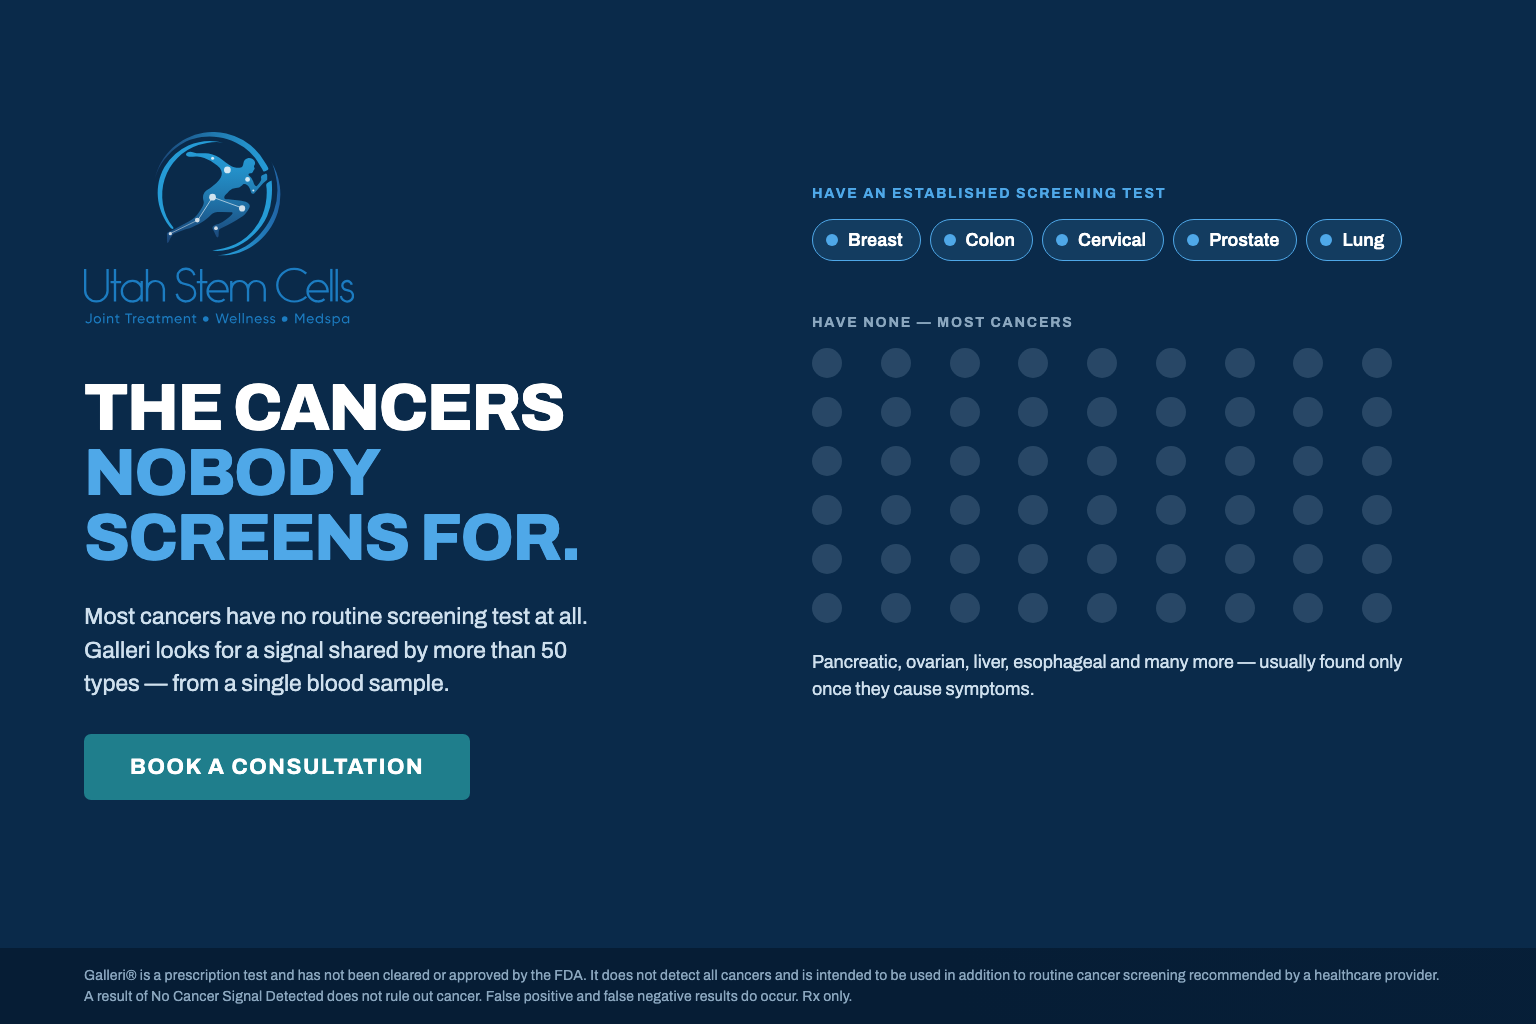
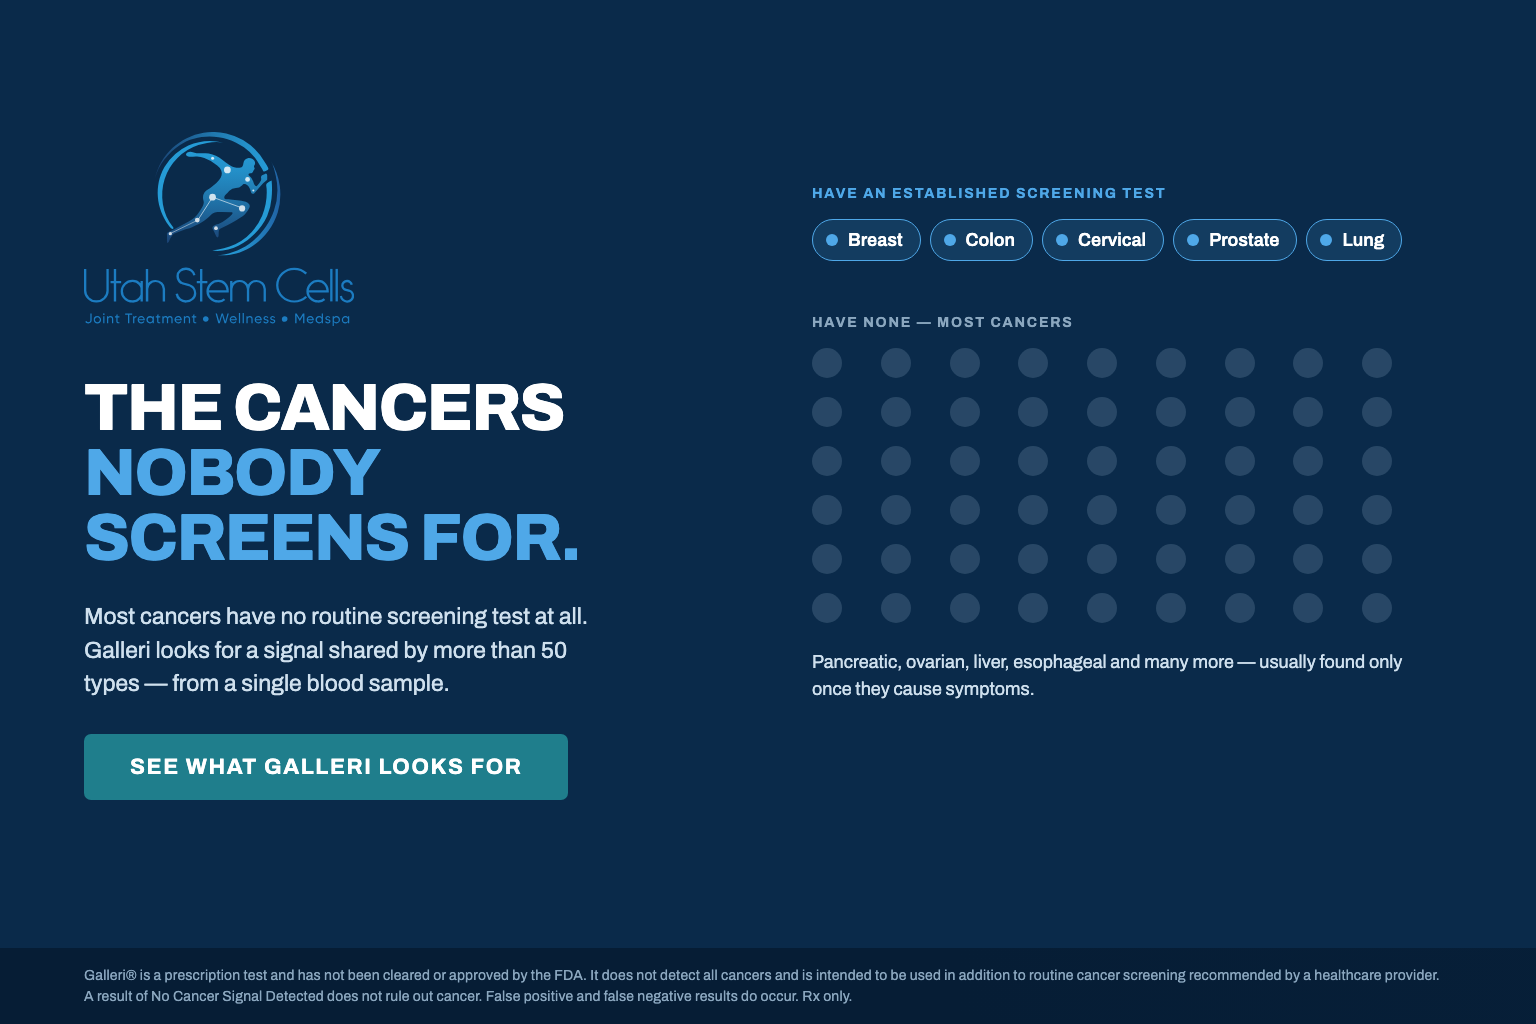
CTA a basso impegno su creativita ed email 02-06
Il primo invio ha dato 19,5% di aperture ma ~0,2% di click, e dei 9 click 6
sono andati alla home invece che alla landing: chi apre vuole capire, non
prenotare. "Book a consultation" diventa un invito a leggere, specifico per
ogni DEM; la prenotazione resta come riga secondaria sotto il bottone.

La 01 non e' toccata: gia' inviata il 9 ottobre.

Changed region(s): [[0.0938, 0.7188, 0.375, 0.7812]]

diff --git a/newsletter/ott26/email/06-how-it-works-here.html b/newsletter/ott26/email/06-how-it-works-here.html
@@ -53,12 +53,12 @@
         
               <table role="presentation" cellpadding="0" cellspacing="0" border="0" align="center" style="margin:0 auto;">
                 <tr><td align="center" bgcolor="#1f7e8c" style="border-radius:6px;">
-                  <a href="https://utahstemcells.com/galleri-test/" style="display:inline-block;padding:16px 38px;font-family:Arial,Helvetica,sans-serif;font-size:17px;font-weight:bold;color:#ffffff;text-decoration:none;border-radius:6px;">Book a consultation</a>
+                  <a href="https://utahstemcells.com/galleri-test/" style="display:inline-block;padding:16px 38px;font-family:Arial,Helvetica,sans-serif;font-size:17px;font-weight:bold;color:#ffffff;text-decoration:none;border-radius:6px;">See how the test works here</a>
                 </td></tr>
               </table>
       </td></tr>
       <tr><td class="px" align="center" style="padding:6px 40px 34px;font-family:Arial,Helvetica,sans-serif;font-size:15px;color:#6b7c8c;">
-        or call <a href="tel:+18019994860" style="color:#0a2a4a;font-weight:bold;text-decoration:none;">(801) 999-4860</a>
+        Prefer to talk it through? Book a consultation on <a href="tel:+18019994860" style="color:#0a2a4a;font-weight:bold;text-decoration:none;">(801) 999-4860</a>
       </td></tr>
       <tr><td class="px" style="padding:0 40px 26px;">
         <p style="margin:0;font-family:Arial,Helvetica,sans-serif;font-size:11px;line-height:1.55;color:#6b7c8c;border-top:1px solid #d6e4f0;padding-top:16px;">Important Safety Information: The Galleri test is recommended for use in adults with an elevated risk for cancer, such as those age 50 or older. The test does not detect all cancers and should be used in addition to routine cancer screening tests recommended by a healthcare provider. Use of the test is not recommended in individuals who are pregnant, 21 years old or younger, or undergoing active cancer treatment. A test result of No Cancer Signal Detected does not rule out cancer. A test result of Cancer Signal Detected requires confirmatory diagnostic evaluation by medically established procedures (e.g., imaging) to confirm cancer. False positive and false negative test results do occur. Rx only. The Galleri test was developed, and its performance characteristics determined, by GRAIL. It has not been cleared or approved by the Food and Drug Administration.</p>

diff --git a/newsletter/ott26/email/03-cancers-nobody-screens-for.html b/newsletter/ott26/email/03-cancers-nobody-screens-for.html
@@ -51,12 +51,12 @@
         
               <table role="presentation" cellpadding="0" cellspacing="0" border="0" align="center" style="margin:0 auto;">
                 <tr><td align="center" bgcolor="#1f7e8c" style="border-radius:6px;">
-                  <a href="https://utahstemcells.com/galleri-test/" style="display:inline-block;padding:16px 38px;font-family:Arial,Helvetica,sans-serif;font-size:17px;font-weight:bold;color:#ffffff;text-decoration:none;border-radius:6px;">Book a consultation</a>
+                  <a href="https://utahstemcells.com/galleri-test/" style="display:inline-block;padding:16px 38px;font-family:Arial,Helvetica,sans-serif;font-size:17px;font-weight:bold;color:#ffffff;text-decoration:none;border-radius:6px;">See what Galleri looks for</a>
                 </td></tr>
               </table>
       </td></tr>
       <tr><td class="px" align="center" style="padding:6px 40px 34px;font-family:Arial,Helvetica,sans-serif;font-size:15px;color:#6b7c8c;">
-        or call <a href="tel:+18019994860" style="color:#0a2a4a;font-weight:bold;text-decoration:none;">(801) 999-4860</a>
+        Prefer to talk it through? Book a consultation on <a href="tel:+18019994860" style="color:#0a2a4a;font-weight:bold;text-decoration:none;">(801) 999-4860</a>
       </td></tr>
       <tr><td class="px" style="padding:0 40px 26px;">
         <p style="margin:0;font-family:Arial,Helvetica,sans-serif;font-size:11px;line-height:1.55;color:#6b7c8c;border-top:1px solid #d6e4f0;padding-top:16px;">Important Safety Information: The Galleri test is recommended for use in adults with an elevated risk for cancer, such as those age 50 or older. The test does not detect all cancers and should be used in addition to routine cancer screening tests recommended by a healthcare provider. Use of the test is not recommended in individuals who are pregnant, 21 years old or younger, or undergoing active cancer treatment. A test result of No Cancer Signal Detected does not rule out cancer. A test result of Cancer Signal Detected requires confirmatory diagnostic evaluation by medically established procedures (e.g., imaging) to confirm cancer. False positive and false negative test results do occur. Rx only. The Galleri test was developed, and its performance characteristics determined, by GRAIL. It has not been cleared or approved by the Food and Drug Administration.</p>

diff --git a/newsletter/ott26/email/04-what-your-result-means.html b/newsletter/ott26/email/04-what-your-result-means.html
@@ -51,12 +51,12 @@
         
               <table role="presentation" cellpadding="0" cellspacing="0" border="0" align="center" style="margin:0 auto;">
                 <tr><td align="center" bgcolor="#1f7e8c" style="border-radius:6px;">
-                  <a href="https://utahstemcells.com/galleri-test/" style="display:inline-block;padding:16px 38px;font-family:Arial,Helvetica,sans-serif;font-size:17px;font-weight:bold;color:#ffffff;text-decoration:none;border-radius:6px;">Book a consultation</a>
+                  <a href="https://utahstemcells.com/galleri-test/" style="display:inline-block;padding:16px 38px;font-family:Arial,Helvetica,sans-serif;font-size:17px;font-weight:bold;color:#ffffff;text-decoration:none;border-radius:6px;">See what each result means</a>
                 </td></tr>
               </table>
       </td></tr>
       <tr><td class="px" align="center" style="padding:6px 40px 34px;font-family:Arial,Helvetica,sans-serif;font-size:15px;color:#6b7c8c;">
-        or call <a href="tel:+18019994860" style="color:#0a2a4a;font-weight:bold;text-decoration:none;">(801) 999-4860</a>
+        Prefer to talk it through? Book a consultation on <a href="tel:+18019994860" style="color:#0a2a4a;font-weight:bold;text-decoration:none;">(801) 999-4860</a>
       </td></tr>
       <tr><td class="px" style="padding:0 40px 26px;">
         <p style="margin:0;font-family:Arial,Helvetica,sans-serif;font-size:11px;line-height:1.55;color:#6b7c8c;border-top:1px solid #d6e4f0;padding-top:16px;">Important Safety Information: The Galleri test is recommended for use in adults with an elevated risk for cancer, such as those age 50 or older. The test does not detect all cancers and should be used in addition to routine cancer screening tests recommended by a healthcare provider. Use of the test is not recommended in individuals who are pregnant, 21 years old or younger, or undergoing active cancer treatment. A test result of No Cancer Signal Detected does not rule out cancer. A test result of Cancer Signal Detected requires confirmatory diagnostic evaluation by medically established procedures (e.g., imaging) to confirm cancer. False positive and false negative test results do occur. Rx only. The Galleri test was developed, and its performance characteristics determined, by GRAIL. It has not been cleared or approved by the Food and Drug Administration.</p>

diff --git a/newsletter/ott26/email/05-is-this-test-right-for-you.html b/newsletter/ott26/email/05-is-this-test-right-for-you.html
@@ -51,12 +51,12 @@
         
               <table role="presentation" cellpadding="0" cellspacing="0" border="0" align="center" style="margin:0 auto;">
                 <tr><td align="center" bgcolor="#1f7e8c" style="border-radius:6px;">
-                  <a href="https://utahstemcells.com/galleri-test/" style="display:inline-block;padding:16px 38px;font-family:Arial,Helvetica,sans-serif;font-size:17px;font-weight:bold;color:#ffffff;text-decoration:none;border-radius:6px;">Book a consultation</a>
+                  <a href="https://utahstemcells.com/galleri-test/" style="display:inline-block;padding:16px 38px;font-family:Arial,Helvetica,sans-serif;font-size:17px;font-weight:bold;color:#ffffff;text-decoration:none;border-radius:6px;">See if it applies to you</a>
                 </td></tr>
               </table>
       </td></tr>
       <tr><td class="px" align="center" style="padding:6px 40px 34px;font-family:Arial,Helvetica,sans-serif;font-size:15px;color:#6b7c8c;">
-        or call <a href="tel:+18019994860" style="color:#0a2a4a;font-weight:bold;text-decoration:none;">(801) 999-4860</a>
+        Prefer to talk it through? Book a consultation on <a href="tel:+18019994860" style="color:#0a2a4a;font-weight:bold;text-decoration:none;">(801) 999-4860</a>
       </td></tr>
       <tr><td class="px" style="padding:0 40px 26px;">
         <p style="margin:0;font-family:Arial,Helvetica,sans-serif;font-size:11px;line-height:1.55;color:#6b7c8c;border-top:1px solid #d6e4f0;padding-top:16px;">Important Safety Information: The Galleri test is recommended for use in adults with an elevated risk for cancer, such as those age 50 or older. The test does not detect all cancers and should be used in addition to routine cancer screening tests recommended by a healthcare provider. Use of the test is not recommended in individuals who are pregnant, 21 years old or younger, or undergoing active cancer treatment. A test result of No Cancer Signal Detected does not rule out cancer. A test result of Cancer Signal Detected requires confirmatory diagnostic evaluation by medically established procedures (e.g., imaging) to confirm cancer. False positive and false negative test results do occur. Rx only. The Galleri test was developed, and its performance characteristics determined, by GRAIL. It has not been cleared or approved by the Food and Drug Administration.</p>

diff --git a/newsletter/ott26/email/02-in-addition-never-instead.html b/newsletter/ott26/email/02-in-addition-never-instead.html
@@ -52,12 +52,12 @@
         
               <table role="presentation" cellpadding="0" cellspacing="0" border="0" align="center" style="margin:0 auto;">
                 <tr><td align="center" bgcolor="#1f7e8c" style="border-radius:6px;">
-                  <a href="https://utahstemcells.com/galleri-test/" style="display:inline-block;padding:16px 38px;font-family:Arial,Helvetica,sans-serif;font-size:17px;font-weight:bold;color:#ffffff;text-decoration:none;border-radius:6px;">Book a consultation</a>
+                  <a href="https://utahstemcells.com/galleri-test/" style="display:inline-block;padding:16px 38px;font-family:Arial,Helvetica,sans-serif;font-size:17px;font-weight:bold;color:#ffffff;text-decoration:none;border-radius:6px;">See where each one fits</a>
                 </td></tr>
               </table>
       </td></tr>
       <tr><td class="px" align="center" style="padding:6px 40px 34px;font-family:Arial,Helvetica,sans-serif;font-size:15px;color:#6b7c8c;">
-        or call <a href="tel:+18019994860" style="color:#0a2a4a;font-weight:bold;text-decoration:none;">(801) 999-4860</a>
+        Prefer to talk it through? Book a consultation on <a href="tel:+18019994860" style="color:#0a2a4a;font-weight:bold;text-decoration:none;">(801) 999-4860</a>
       </td></tr>
       <tr><td class="px" style="padding:0 40px 26px;">
         <p style="margin:0;font-family:Arial,Helvetica,sans-serif;font-size:11px;line-height:1.55;color:#6b7c8c;border-top:1px solid #d6e4f0;padding-top:16px;">Important Safety Information: The Galleri test is recommended for use in adults with an elevated risk for cancer, such as those age 50 or older. The test does not detect all cancers and should be used in addition to routine cancer screening tests recommended by a healthcare provider. Use of the test is not recommended in individuals who are pregnant, 21 years old or younger, or undergoing active cancer treatment. A test result of No Cancer Signal Detected does not rule out cancer. A test result of Cancer Signal Detected requires confirmatory diagnostic evaluation by medically established procedures (e.g., imaging) to confirm cancer. False positive and false negative test results do occur. Rx only. The Galleri test was developed, and its performance characteristics determined, by GRAIL. It has not been cleared or approved by the Food and Drug Administration.</p>

diff --git a/newsletter/ott26/email/01-one-blood-draw.html b/newsletter/ott26/email/01-one-blood-draw.html
@@ -56,7 +56,7 @@
               </table>
       </td></tr>
       <tr><td class="px" align="center" style="padding:6px 40px 34px;font-family:Arial,Helvetica,sans-serif;font-size:15px;color:#6b7c8c;">
-        or call <a href="tel:+18019994860" style="color:#0a2a4a;font-weight:bold;text-decoration:none;">(801) 999-4860</a>
+        Prefer to talk it through? Book a consultation on <a href="tel:+18019994860" style="color:#0a2a4a;font-weight:bold;text-decoration:none;">(801) 999-4860</a>
       </td></tr>
       <tr><td class="px" style="padding:0 40px 26px;">
         <p style="margin:0;font-family:Arial,Helvetica,sans-serif;font-size:11px;line-height:1.55;color:#6b7c8c;border-top:1px solid #d6e4f0;padding-top:16px;">Important Safety Information: The Galleri test is recommended for use in adults with an elevated risk for cancer, such as those age 50 or older. The test does not detect all cancers and should be used in addition to routine cancer screening tests recommended by a healthcare provider. Use of the test is not recommended in individuals who are pregnant, 21 years old or younger, or undergoing active cancer treatment. A test result of No Cancer Signal Detected does not rule out cancer. A test result of Cancer Signal Detected requires confirmatory diagnostic evaluation by medically established procedures (e.g., imaging) to confirm cancer. False positive and false negative test results do occur. Rx only. The Galleri test was developed, and its performance characteristics determined, by GRAIL. It has not been cleared or approved by the Food and Drug Administration.</p>

diff --git a/newsletter/ott26/creative-05.html b/newsletter/ott26/creative-05.html
@@ -70,7 +70,7 @@ h1 .accent{color:var(--blue);display:block}
       <li><span class="dot"><svg viewBox="0 0 16 16" fill="none" stroke="#4fa8e8" stroke-width="2.6" stroke-linecap="round" stroke-linejoin="round"><path d="M2.5 8.5l3.5 3.5 7.5-8"/></svg></span><span>Or at elevated risk of cancer</span></li>
       <li><span class="dot"><svg viewBox="0 0 16 16" fill="none" stroke="#4fa8e8" stroke-width="2.6" stroke-linecap="round" stroke-linejoin="round"><path d="M2.5 8.5l3.5 3.5 7.5-8"/></svg></span><span>Prescription required &mdash; the physician decides with you</span></li>
     </ul>
-    <a class="cta" href="#">Book a consultation</a>
+    <a class="cta" href="#">See if it applies to you</a>
   </div>
 <div class="isi">Galleri&reg; is a prescription test and has not been cleared or approved by the FDA. It does not detect all cancers and is intended to be used in addition to routine cancer screening recommended by a healthcare provider. A result of No Cancer Signal Detected does not rule out cancer. False positive and false negative results do occur. Rx only.</div>
 </body></html>

diff --git a/newsletter/ott26/creative-04.html b/newsletter/ott26/creative-04.html
@@ -71,7 +71,7 @@ h1 .accent{color:var(--blue);display:block}
       <div class="card"><div class="t">Cancer signal detected</div>
         <div class="b">Not a diagnosis. Requires confirmatory evaluation by established procedures, such as imaging.</div></div>
     </div>
-    <a class="cta" href="#">Book a consultation</a>
+    <a class="cta" href="#">See what each result means</a>
   </div>
 <div class="isi">Galleri&reg; is a prescription test and has not been cleared or approved by the FDA. It does not detect all cancers and is intended to be used in addition to routine cancer screening recommended by a healthcare provider. A result of No Cancer Signal Detected does not rule out cancer. False positive and false negative results do occur. Rx only.</div>
 </body></html>

diff --git a/newsletter/ott26/creative-02.html b/newsletter/ott26/creative-02.html
@@ -74,7 +74,7 @@ h1 .accent{color:var(--blue);display:block}
       <div class="pbox"><div class="t">Galleri</div>
         <div class="b">A signal shared by more than 50 types of cancer &mdash; including many with no screening test at all.</div></div>
     </div>
-    <a class="cta" href="#">Book a consultation</a>
+    <a class="cta" href="#">See where each one fits</a>
   </div>
 <div class="isi">Galleri&reg; is a prescription test and has not been cleared or approved by the FDA. It does not detect all cancers and is intended to be used in addition to routine cancer screening recommended by a healthcare provider. A result of No Cancer Signal Detected does not rule out cancer. False positive and false negative results do occur. Rx only.</div>
 </body></html>

diff --git a/newsletter/ott26/creative-06.html b/newsletter/ott26/creative-06.html
@@ -77,7 +77,7 @@ h1 .accent{color:var(--blue);display:block}
       <div><div class="d1">Dr. William Cimikoski</div>
       <div class="d2">Medical Director. Oversees this process personally.</div></div>
     </div>
-    <a class="cta" href="#">Book a consultation</a>
+    <a class="cta" href="#">See how the test works here</a>
   </div>
 <div class="isi">Galleri&reg; is a prescription test and has not been cleared or approved by the FDA. It does not detect all cancers and is intended to be used in addition to routine cancer screening recommended by a healthcare provider. A result of No Cancer Signal Detected does not rule out cancer. False positive and false negative results do occur. Rx only.</div>
 </body></html>

diff --git a/newsletter/ott26/creative-03.html b/newsletter/ott26/creative-03.html
@@ -62,7 +62,7 @@ h1 .accent{color:var(--blue);display:block}
     <img class="logo" src="logo.svg">
     <h1>The cancers<span class="accent">nobody<br>screens for.</span></h1>
     <p class="sub" style="max-width:540px;margin-top:30px;font-size:23px">Most cancers have no routine screening test at all. Galleri looks for a signal shared by more than 50 types &mdash; from a single blood sample.</p>
-    <a class="cta" href="#">Book a consultation</a>
+    <a class="cta" href="#">See what Galleri looks for</a>
   </div>
   <div class="viz" style="top:186px">
     <div class="vrow">
